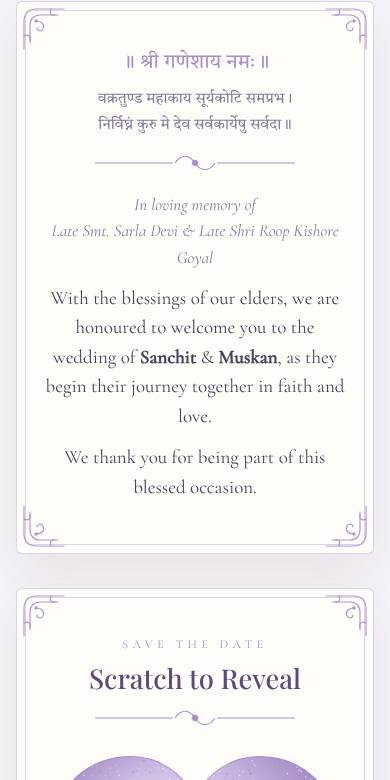
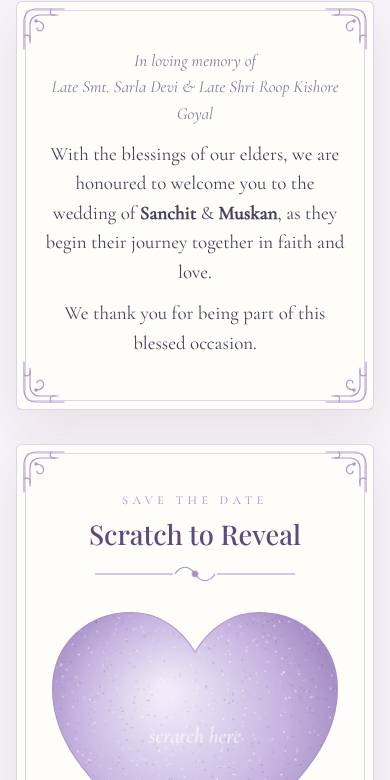
Violet: shloka at top of the hero, invite card in grandparents' blessings format, no intro page
Claude-Session: https://claude.ai/code/session_01Hp1reDtqQxEXYrwbRNhMkA

diff --git a/violet/index.html b/violet/index.html
@@ -11,7 +11,7 @@
 <link rel="preconnect" href="https://fonts.googleapis.com">
 <link rel="preconnect" href="https://fonts.gstatic.com" crossorigin>
 <link rel="stylesheet" href="https://fonts.googleapis.com/css2?family=Allura&family=Playfair+Display:wght@400;500;600&family=Cormorant+Garamond:ital,wght@0,400;0,500;0,600;1,400;1,500&family=Tiro+Devanagari+Hindi&display=swap">
-<link rel="stylesheet" href="../assets/theme.css?v=c7937953">
+<link rel="stylesheet" href="../assets/theme.css?v=d03a716e">
 <style>:root{--bg:#f7f4fa;--ink:#4a3f58;--muted:#86799a;--head:#5e4a7d;--accent:#a98ec8;--accent-deep:#7a5fa0;--line:rgba(160,135,195,.35);--card:#fffdf9;--card-shadow:rgba(90,70,40,.10);--tile:rgba(176,141,87,.06);--btn:#6e568f;--btn-ink:#fff;--paper:#fdfbff;--paper-ink:#5e4a7d;--light:#fff6dc;--hero-ink:#5e4a7d;--hero-accent:#7a5fa0;--hero-shadow:rgba(255,255,255,.7);--name1:#5e4a7d;--name2:#e6d8f6;--o-ink:#5e4a7d;--o-shadow:rgba(255,255,255,.8);--m-ink:#7a5fa0;--m-line:rgba(122,95,160,.45);--rb-hi:#ffffff;--rb:#e9e1d2;--rb-lo:#cbbfa8;--o-veil:rgba(255,255,255,.08);--o-panel:#f4ede1;--fl1:#d7c3ee;--fl2:#ffffff;--fl-c:#e9d8a6;--leaf:#a6b29a;--radius:6px;--o-bg:radial-gradient(circle at 50% 40%,#efe7f7,#cfc0e4);--o1:#d8c9ec;--o2:#c6b3e0;--o-line:#ffffff;--m:#f3eef8;--m-hi:#ffffff;--m-lo:#cbbfd9;--sky1:#ece3f6;--sky2:#fbf8fd;--o-frame:#f7f4fa;--hero-bg:#f7f4fa;--sun:#fff6dc;--mt1:#a6b29a;--mt2:#a6b29a;--water1:#ece3f6;--water2:#f7f4fa;--pal:#fffdf9;--win:#fff6dc;--arch:#fffdf9;--moon:#fff;--hero-veil:radial-gradient(ellipse 72% 52% at 50% 50%,rgba(247,244,250,0.86),rgba(247,244,250,0) 75%);--script:"Allura",cursive;--display:"Playfair Display",serif;--serif:"Cormorant Garamond",Georgia,serif}#music{display:none!important}</style>
 </head>
 <body class="locked">
@@ -67,6 +67,7 @@
   <div class="veil"></div>
   <div class="hero">
     <div class="ganesh h-in" style="--i:0">॥ श्री गणेशाय नमः ॥</div>
+    <div class="ganesh-verse h-in" style="--i:0.5">वक्रतुण्ड महाकाय सूर्यकोटि समप्रभ।<br>निर्विघ्नं कुरु मे देव सर्वकार्येषु सर्वदा॥</div>
     <div class="kicker h-in" style="--i:1">We're getting married</div>
     <h1 class="name" style="--i:2">Sanchit</h1>
     <div class="par h-in" style="--i:3">Son of Smt. Seema Goyal &amp; Shri Sanjay Goyal</div>
@@ -80,11 +81,18 @@
 
 <main>
   <section class="sec rv"><svg class="corner c-tl" aria-hidden="true"><use href="#corner"/></svg><svg class="corner c-tr" aria-hidden="true"><use href="#corner"/></svg><svg class="corner c-bl" aria-hidden="true"><use href="#corner"/></svg><svg class="corner c-br" aria-hidden="true"><use href="#corner"/></svg>
-    <div class="deva st" style="--d:0">॥ श्री गणेशाय नमः ॥<small>वक्रतुण्ड महाकाय सूर्यकोटि समप्रभ।<br>निर्विघ्नं कुरु मे देव सर्वकार्येषु सर्वदा॥</small></div>
-    <svg class="divider" viewBox="0 0 200 22" aria-hidden="true"><path d="M0 11H78M122 11H200M80 11c6-9 14-9 20 0 6 9 14 9 20 0" fill="none" stroke="currentColor" stroke-width="1.1"/><circle cx="100" cy="11" r="3" fill="currentColor"/></svg>
-    <p class="memory st" style="--d:1">In loving memory of<br>Late Smt. Sarla Devi &amp; Late Shri Roop Kishore Goyal</p>
-    <p class="st" style="--d:2">With the blessings of our elders, we are honoured to welcome you to the wedding of <b>Sanchit</b> &amp; <b>Muskan</b>, as they begin their journey together in faith and love.</p>
-    <p class="st" style="--d:3">We thank you for being part of this blessed occasion.</p>
+
+    <div class="inv">
+      <div class="inv-h st" style="--d:0">With the Heavenly Blessings<br>of Grandparents</div>
+      <div class="inv-n st" style="--d:1">Late Smt. Sarla Devi &amp;<br>Late Shri Roop Kishore Goyal</div>
+      <svg class="divider" viewBox="0 0 200 22" aria-hidden="true"><path d="M0 11H78M122 11H200M80 11c6-9 14-9 20 0 6 9 14 9 20 0" fill="none" stroke="currentColor" stroke-width="1.1"/><circle cx="100" cy="11" r="3" fill="currentColor"/></svg>
+      <div class="inv-p st" style="--d:2">Smt. Seema Goyal &amp;<br>Shri Sanjay Goyal</div>
+      <div class="inv-i st" style="--d:3">We cordially invite you to the sacred occasion<br>of the wedding celebrations of our beloved son</div>
+      <div class="inv-s st" style="--d:4">Sanchit</div>
+      <div class="inv-w st" style="--d:5">with</div>
+      <div class="inv-s st" style="--d:6">Muskan</div>
+      <div class="inv-n st" style="--d:7">D/o Smt. Anjali Jain &amp; Late Shri Atul Jain</div>
+    </div>
   </section>
 
   <section class="sec rv"><svg class="corner c-tl" aria-hidden="true"><use href="#corner"/></svg><svg class="corner c-tr" aria-hidden="true"><use href="#corner"/></svg><svg class="corner c-bl" aria-hidden="true"><use href="#corner"/></svg><svg class="corner c-br" aria-hidden="true"><use href="#corner"/></svg>

diff --git a/vintage/index.html b/vintage/index.html
@@ -11,7 +11,7 @@
 <link rel="preconnect" href="https://fonts.googleapis.com">
 <link rel="preconnect" href="https://fonts.gstatic.com" crossorigin>
 <link rel="stylesheet" href="https://fonts.googleapis.com/css2?family=Pinyon+Script&family=Cormorant+Garamond:ital,wght@0,400;0,500;0,600;1,400;1,500&family=Tiro+Devanagari+Hindi&display=swap">
-<link rel="stylesheet" href="../assets/theme.css?v=c7937953">
+<link rel="stylesheet" href="../assets/theme.css?v=d03a716e">
 <style>:root{--bg:#f2e9d6;--ink:#3b3a45;--muted:#7a7064;--head:#2c3a5a;--accent:#8a6f45;--accent-deep:#6b5532;--line:rgba(110,90,60,.35);--card:#f8f1e2;--card-shadow:rgba(90,70,40,.10);--tile:rgba(176,141,87,.06);--btn:#2c3a5a;--btn-ink:#fff;--paper:#f8f0dd;--paper-ink:#2c3a5a;--light:#fff6dc;--hero-ink:#2c3a5a;--hero-accent:#5a6f93;--hero-shadow:rgba(255,255,255,.7);--name1:#2c3a5a;--name2:#a9bcd6;--o-ink:#2c3a5a;--o-shadow:rgba(255,255,255,.7);--m-ink:#fbe3d6;--m-line:rgba(251,227,214,.55);--rb-hi:#ffffff;--rb:#e9e1d2;--rb-lo:#cbbfa8;--o-veil:rgba(255,255,255,.08);--o-panel:#f4ede1;--fl1:#9fb3cf;--fl2:#d6e0ec;--fl-c:#e6d3a3;--leaf:#8f9a7c;--radius:6px;--bg-tex:radial-gradient(circle at 20% 10%,rgba(160,120,60,.10),transparent 40%),radial-gradient(circle at 80% 70%,rgba(160,120,60,.12),transparent 45%);--tex-op:1;--hero-veil:radial-gradient(ellipse 70% 55% at 50% 50%,rgba(244,236,218,.85),rgba(244,236,218,0) 75%);--o-bg:radial-gradient(circle at 50% 45%,#efe2c6,#d6c29c);--o1:#2f3d5e;--o2:#26324d;--o-line:#c9a86a;--m:#b8323a;--m-hi:#e0646a;--m-lo:#7a1b22;--sky1:#efe3c9;--sky2:#f6eedd;--o-frame:#f2e9d6;--hero-bg:#f2e9d6;--sun:#fff6dc;--mt1:#8f9a7c;--mt2:#8f9a7c;--water1:#efe3c9;--water2:#f2e9d6;--pal:#f8f1e2;--win:#fff6dc;--arch:#f8f1e2;--moon:#fff;--script:"Pinyon Script",cursive;--display:"Cormorant Garamond",serif;--serif:"Cormorant Garamond",Georgia,serif}</style>
 </head>
 <body class="locked">
@@ -82,6 +82,7 @@
   <section class="sec rv"><svg class="corner c-tl" aria-hidden="true"><use href="#corner"/></svg><svg class="corner c-tr" aria-hidden="true"><use href="#corner"/></svg><svg class="corner c-bl" aria-hidden="true"><use href="#corner"/></svg><svg class="corner c-br" aria-hidden="true"><use href="#corner"/></svg>
     <div class="deva st" style="--d:0">॥ श्री गणेशाय नमः ॥<small>वक्रतुण्ड महाकाय सूर्यकोटि समप्रभ।<br>निर्विघ्नं कुरु मे देव सर्वकार्येषु सर्वदा॥</small></div>
     <svg class="divider" viewBox="0 0 200 22" aria-hidden="true"><path d="M0 11H78M122 11H200M80 11c6-9 14-9 20 0 6 9 14 9 20 0" fill="none" stroke="currentColor" stroke-width="1.1"/><circle cx="100" cy="11" r="3" fill="currentColor"/></svg>
+
     <p class="memory st" style="--d:1">In loving memory of<br>Late Smt. Sarla Devi &amp; Late Shri Roop Kishore Goyal</p>
     <p class="st" style="--d:2">With the blessings of our elders, we are honoured to welcome you to the wedding of <b>Sanchit</b> &amp; <b>Muskan</b>, as they begin their journey together in faith and love.</p>
     <p class="st" style="--d:3">We thank you for being part of this blessed occasion.</p>

diff --git a/moonveil/index.html b/moonveil/index.html
@@ -11,7 +11,7 @@
 <link rel="preconnect" href="https://fonts.googleapis.com">
 <link rel="preconnect" href="https://fonts.gstatic.com" crossorigin>
 <link rel="stylesheet" href="https://fonts.googleapis.com/css2?family=Pinyon+Script&family=Cinzel:wght@400;500;600&family=Cormorant+Garamond:ital,wght@0,400;0,500;0,600;1,400;1,500&family=Tiro+Devanagari+Hindi&display=swap">
-<link rel="stylesheet" href="../assets/theme.css?v=c7937953">
+<link rel="stylesheet" href="../assets/theme.css?v=d03a716e">
 <style>:root{--ink:#efe6d4;--muted:#bfb197;--head:#f3e7cc;--accent:#d4b06a;--accent-deep:#e2c27e;--line:rgba(212,176,106,.35);--card-shadow:rgba(0,0,0,.45);--tile:rgba(212,176,106,.07);--btn:#d4b06a;--btn-ink:#1a1408;--paper-ink:#3a2f22;--paper:#fbf5e8;--hero-ink:#f6ecd6;--hero-accent:#e2c27e;--hero-shadow:rgba(0,0,0,.6);--name1:#f6ecd6;--name2:#ffe3a0;--light:#fff2cf;--o-ink:#f6ecd6;--o-shadow:rgba(0,0,0,.6);--m-ink:#4a3412;--m-line:rgba(74,52,18,.5);--map-filter:invert(.9) hue-rotate(180deg) saturate(.6);--fl1:#d4b06a;--fl2:#b8934c;--fl-c:#f3dfa6;--leaf:#b8934c;--radius:6px;--bg:#0b0b0d;--card:#141416;--o-bg:#060607;--o-panel:repeating-linear-gradient(90deg,#0a0a0b 0,#19191c 2.5%,#09090a 5%);--rb:rgba(245,240,230,.55);--rb-hi:rgba(255,255,255,.75);--rb-lo:rgba(200,190,170,.45);--m:#d4b06a;--m-hi:#fbe7b4;--m-lo:#94702f;--hero-bg:#08080a;--hero-veil:radial-gradient(ellipse 70% 50% at 50% 55%,rgba(8,8,10,.8),rgba(8,8,10,0) 75%);--sky1:#050506;--sky2:#1c1b22;--moon:#f4ead2;--pal:#0d0d10;--win:#e9c77b;--o1:#333;--o2:#555;--o-frame:#0b0b0d;--sun:#fff2cf;--mt1:#b8934c;--mt2:#b8934c;--water1:#050506;--water2:#0b0b0d;--arch:#141416;--o-veil:transparent;--script:"Pinyon Script",cursive;--display:"Cinzel",serif;--serif:"Cormorant Garamond",Georgia,serif}</style>
 </head>
 <body class="locked dark">
@@ -96,6 +96,7 @@
   <section class="sec rv"><svg class="corner c-tl" aria-hidden="true"><use href="#corner"/></svg><svg class="corner c-tr" aria-hidden="true"><use href="#corner"/></svg><svg class="corner c-bl" aria-hidden="true"><use href="#corner"/></svg><svg class="corner c-br" aria-hidden="true"><use href="#corner"/></svg>
     <div class="deva st" style="--d:0">॥ श्री गणेशाय नमः ॥<small>वक्रतुण्ड महाकाय सूर्यकोटि समप्रभ।<br>निर्विघ्नं कुरु मे देव सर्वकार्येषु सर्वदा॥</small></div>
     <svg class="divider" viewBox="0 0 200 22" aria-hidden="true"><path d="M0 11H78M122 11H200M80 11c6-9 14-9 20 0 6 9 14 9 20 0" fill="none" stroke="currentColor" stroke-width="1.1"/><circle cx="100" cy="11" r="3" fill="currentColor"/></svg>
+
     <p class="memory st" style="--d:1">In loving memory of<br>Late Smt. Sarla Devi &amp; Late Shri Roop Kishore Goyal</p>
     <p class="st" style="--d:2">With the blessings of our elders, we are honoured to welcome you to the wedding of <b>Sanchit</b> &amp; <b>Muskan</b>, as they begin their journey together in faith and love.</p>
     <p class="st" style="--d:3">We thank you for being part of this blessed occasion.</p>

diff --git a/pearlsky/index.html b/pearlsky/index.html
@@ -11,7 +11,7 @@
 <link rel="preconnect" href="https://fonts.googleapis.com">
 <link rel="preconnect" href="https://fonts.gstatic.com" crossorigin>
 <link rel="stylesheet" href="https://fonts.googleapis.com/css2?family=Great+Vibes&family=Cinzel:wght@400;500;600&family=Cormorant+Garamond:ital,wght@0,400;0,500;0,600;1,400;1,500&family=Tiro+Devanagari+Hindi&display=swap">
-<link rel="stylesheet" href="../assets/theme.css?v=c7937953">
+<link rel="stylesheet" href="../assets/theme.css?v=d03a716e">
 <style>:root{--ink:#efe6d4;--muted:#bfb197;--head:#f4ecdd;--accent:#d8c49a;--accent-deep:#efdcb2;--line:rgba(216,196,154,.3);--card-shadow:rgba(0,0,0,.45);--tile:rgba(212,176,106,.07);--btn:#d4b06a;--btn-ink:#1a1408;--paper-ink:#3a2f22;--paper:#fbf5e8;--hero-ink:#f6ecd6;--hero-accent:#e2c27e;--hero-shadow:rgba(0,0,0,.6);--name1:#f7f2e8;--name2:#ffffff;--light:#fff2cf;--o-ink:#f6ecd6;--o-shadow:rgba(0,0,0,.6);--m-ink:#1b2850;--m-line:rgba(27,40,80,.4);--map-filter:invert(.9) hue-rotate(180deg) saturate(.6);--fl1:#f4efe6;--fl2:#dfe6f3;--fl-c:#e6d3a3;--leaf:#4f6176;--radius:6px;--bg:#0f1830;--card:#16213d;--o-bg:#0d1630;--o-panel:repeating-linear-gradient(90deg,#0f1a36 0,#1b2850 2.5%,#0e1833 5%);--rb:#efe8da;--rb-hi:#ffffff;--rb-lo:#c4b9a3;--m:#f1ece2;--m-hi:#ffffff;--m-lo:#c5bba8;--hero-bg:#0d1630;--hero-veil:radial-gradient(ellipse 70% 50% at 50% 55%,rgba(13,22,48,.75),rgba(13,22,48,0) 75%);--sky1:#0b1328;--sky2:#24345e;--moon:#f6f1e2;--pal:#0a1124;--win:#f3d796;--o1:#333;--o2:#555;--o-frame:#0f1830;--sun:#fff2cf;--mt1:#4f6176;--mt2:#4f6176;--water1:#0b1328;--water2:#0f1830;--arch:#16213d;--o-veil:transparent;--script:"Great Vibes",cursive;--display:"Cinzel",serif;--serif:"Cormorant Garamond",Georgia,serif}</style>
 </head>
 <body class="locked dark">
@@ -96,6 +96,7 @@
   <section class="sec rv"><svg class="corner c-tl" aria-hidden="true"><use href="#corner"/></svg><svg class="corner c-tr" aria-hidden="true"><use href="#corner"/></svg><svg class="corner c-bl" aria-hidden="true"><use href="#corner"/></svg><svg class="corner c-br" aria-hidden="true"><use href="#corner"/></svg>
     <div class="deva st" style="--d:0">॥ श्री गणेशाय नमः ॥<small>वक्रतुण्ड महाकाय सूर्यकोटि समप्रभ।<br>निर्विघ्नं कुरु मे देव सर्वकार्येषु सर्वदा॥</small></div>
     <svg class="divider" viewBox="0 0 200 22" aria-hidden="true"><path d="M0 11H78M122 11H200M80 11c6-9 14-9 20 0 6 9 14 9 20 0" fill="none" stroke="currentColor" stroke-width="1.1"/><circle cx="100" cy="11" r="3" fill="currentColor"/></svg>
+
     <p class="memory st" style="--d:1">In loving memory of<br>Late Smt. Sarla Devi &amp; Late Shri Roop Kishore Goyal</p>
     <p class="st" style="--d:2">With the blessings of our elders, we are honoured to welcome you to the wedding of <b>Sanchit</b> &amp; <b>Muskan</b>, as they begin their journey together in faith and love.</p>
     <p class="st" style="--d:3">We thank you for being part of this blessed occasion.</p>

diff --git a/crest/index.html b/crest/index.html
@@ -11,7 +11,7 @@
 <link rel="preconnect" href="https://fonts.googleapis.com">
 <link rel="preconnect" href="https://fonts.gstatic.com" crossorigin>
 <link rel="stylesheet" href="https://fonts.googleapis.com/css2?family=Pinyon+Script&family=Playfair+Display:wght@400;500;600&family=Cormorant+Garamond:ital,wght@0,400;0,500;0,600;1,400;1,500&family=Tiro+Devanagari+Hindi&display=swap">
-<link rel="stylesheet" href="../assets/theme.css?v=c7937953">
+<link rel="stylesheet" href="../assets/theme.css?v=d03a716e">
 <style>:root{--bg:#faf6ee;--ink:#3f3630;--muted:#85776a;--head:#5c1a26;--accent:#b0905a;--accent-deep:#866a38;--line:rgba(176,141,87,.35);--card:#fffdf9;--card-shadow:rgba(90,70,40,.10);--tile:rgba(176,141,87,.06);--btn:#5c1a26;--btn-ink:#fff;--paper:#fffaf1;--paper-ink:#5c1a26;--light:#fff6dc;--hero-ink:#5c1a26;--hero-accent:#7a4a3a;--hero-shadow:rgba(255,255,255,.7);--name1:#5c1a26;--name2:#efcfb4;--o-ink:#5c1a26;--o-shadow:rgba(255,255,255,.8);--m-ink:#f5dcc8;--m-line:rgba(245,220,200,.5);--rb-hi:#ffffff;--rb:#e9e1d2;--rb-lo:#cbbfa8;--o-veil:rgba(255,255,255,.08);--o-panel:#f4ede1;--fl1:#f7efe4;--fl2:#ecd2c7;--fl-c:#d9b26a;--leaf:#9aa47e;--radius:6px;--o-bg:radial-gradient(circle at 50% 40%,#f5efe3,#ddd0b8);--o1:#f1e9da;--o2:#e4d8c2;--o-line:#b0905a;--m:#7a1f2e;--m-hi:#b0485a;--m-lo:#4a0f19;--sky1:#e8dccb;--sky2:#f8f3ea;--sun:#fffaf0;--mt1:#cdbfae;--mt2:#a3a58a;--water1:#c9c0b0;--water2:#efe8dc;--o-frame:#faf6ee;--hero-bg:#faf6ee;--pal:#fffdf9;--win:#fff6dc;--arch:#fffdf9;--moon:#fff;--hero-veil:radial-gradient(ellipse 72% 52% at 50% 50%,rgba(250,246,238,0.86),rgba(250,246,238,0) 75%);--script:"Pinyon Script",cursive;--display:"Playfair Display",serif;--serif:"Cormorant Garamond",Georgia,serif}</style>
 </head>
 <body class="locked">
@@ -86,6 +86,7 @@
   <section class="sec rv"><svg class="corner c-tl" aria-hidden="true"><use href="#corner"/></svg><svg class="corner c-tr" aria-hidden="true"><use href="#corner"/></svg><svg class="corner c-bl" aria-hidden="true"><use href="#corner"/></svg><svg class="corner c-br" aria-hidden="true"><use href="#corner"/></svg>
     <div class="deva st" style="--d:0">॥ श्री गणेशाय नमः ॥<small>वक्रतुण्ड महाकाय सूर्यकोटि समप्रभ।<br>निर्विघ्नं कुरु मे देव सर्वकार्येषु सर्वदा॥</small></div>
     <svg class="divider" viewBox="0 0 200 22" aria-hidden="true"><path d="M0 11H78M122 11H200M80 11c6-9 14-9 20 0 6 9 14 9 20 0" fill="none" stroke="currentColor" stroke-width="1.1"/><circle cx="100" cy="11" r="3" fill="currentColor"/></svg>
+
     <p class="memory st" style="--d:1">In loving memory of<br>Late Smt. Sarla Devi &amp; Late Shri Roop Kishore Goyal</p>
     <p class="st" style="--d:2">With the blessings of our elders, we are honoured to welcome you to the wedding of <b>Sanchit</b> &amp; <b>Muskan</b>, as they begin their journey together in faith and love.</p>
     <p class="st" style="--d:3">We thank you for being part of this blessed occasion.</p>

diff --git a/prism/index.html b/prism/index.html
@@ -11,7 +11,7 @@
 <link rel="preconnect" href="https://fonts.googleapis.com">
 <link rel="preconnect" href="https://fonts.gstatic.com" crossorigin>
 <link rel="stylesheet" href="https://fonts.googleapis.com/css2?family=Great+Vibes&family=Italiana&family=Cormorant+Garamond:ital,wght@0,400;0,500;0,600;1,400;1,500&family=Tiro+Devanagari+Hindi&display=swap">
-<link rel="stylesheet" href="../assets/theme.css?v=c7937953">
+<link rel="stylesheet" href="../assets/theme.css?v=d03a716e">
 <style>:root{--bg:#f3f5ef;--ink:#3f3630;--muted:#85776a;--head:#4e5d47;--accent:#b49656;--accent-deep:#86703c;--line:rgba(140,160,120,.4);--card:#fffdf9;--card-shadow:rgba(90,70,40,.10);--tile:rgba(176,141,87,.06);--btn:#5e6e55;--btn-ink:#fff;--paper:#fffaf1;--paper-ink:#4e5d47;--light:#fff6dc;--hero-ink:#4e5d47;--hero-accent:#86703c;--hero-shadow:rgba(255,255,255,.7);--name1:#4e5d47;--name2:#f1dfa9;--o-ink:#4e5d47;--o-shadow:rgba(255,255,255,.9);--m-ink:#fff6df;--m-line:rgba(255,246,223,.75);--rb-hi:#ffffff;--rb:#e9e1d2;--rb-lo:#cbbfa8;--o-veil:linear-gradient(160deg,rgba(176,196,160,.55),rgba(214,226,200,.35) 50%,rgba(160,184,146,.55));--o-panel:#f4ede1;--fl1:#ffffff;--fl2:#eef2e6;--fl-c:#e1c27a;--leaf:#98aa86;--radius:6px;--o-bg:#dfe6d7;--o-line:rgba(255,255,255,.7);--m:#c9a45e;--m-hi:#f3dea8;--m-lo:#8d6a2f;--sky1:#e8eedf;--sky2:#fbfcf8;--o1:#333;--o2:#555;--o-frame:#f3f5ef;--hero-bg:#f3f5ef;--sun:#fff6dc;--mt1:#98aa86;--mt2:#98aa86;--water1:#e8eedf;--water2:#f3f5ef;--pal:#fffdf9;--win:#fff6dc;--arch:#fffdf9;--moon:#fff;--hero-veil:radial-gradient(ellipse 72% 52% at 50% 50%,rgba(243,245,239,0.86),rgba(243,245,239,0) 75%);--script:"Great Vibes",cursive;--display:"Italiana",serif;--serif:"Cormorant Garamond",Georgia,serif}</style>
 </head>
 <body class="locked">
@@ -89,6 +89,7 @@
   <section class="sec rv"><svg class="corner c-tl" aria-hidden="true"><use href="#corner"/></svg><svg class="corner c-tr" aria-hidden="true"><use href="#corner"/></svg><svg class="corner c-bl" aria-hidden="true"><use href="#corner"/></svg><svg class="corner c-br" aria-hidden="true"><use href="#corner"/></svg>
     <div class="deva st" style="--d:0">॥ श्री गणेशाय नमः ॥<small>वक्रतुण्ड महाकाय सूर्यकोटि समप्रभ।<br>निर्विघ्नं कुरु मे देव सर्वकार्येषु सर्वदा॥</small></div>
     <svg class="divider" viewBox="0 0 200 22" aria-hidden="true"><path d="M0 11H78M122 11H200M80 11c6-9 14-9 20 0 6 9 14 9 20 0" fill="none" stroke="currentColor" stroke-width="1.1"/><circle cx="100" cy="11" r="3" fill="currentColor"/></svg>
+
     <p class="memory st" style="--d:1">In loving memory of<br>Late Smt. Sarla Devi &amp; Late Shri Roop Kishore Goyal</p>
     <p class="st" style="--d:2">With the blessings of our elders, we are honoured to welcome you to the wedding of <b>Sanchit</b> &amp; <b>Muskan</b>, as they begin their journey together in faith and love.</p>
     <p class="st" style="--d:3">We thank you for being part of this blessed occasion.</p>

diff --git a/crimson-royale/index.html b/crimson-royale/index.html
@@ -11,7 +11,7 @@
 <link rel="preconnect" href="https://fonts.googleapis.com">
 <link rel="preconnect" href="https://fonts.gstatic.com" crossorigin>
 <link rel="stylesheet" href="https://fonts.googleapis.com/css2?family=Great+Vibes&family=Playfair+Display:wght@400;500;600&family=Cormorant+Garamond:ital,wght@0,400;0,500;0,600;1,400;1,500&family=Tiro+Devanagari+Hindi&display=swap">
-<link rel="stylesheet" href="../assets/theme.css?v=c7937953">
+<link rel="stylesheet" href="../assets/theme.css?v=d03a716e">
 <style>:root{--ink:#efe6d4;--muted:#bfb197;--head:#f2e3c6;--accent:#c9a25e;--accent-deep:#e4c27f;--line:rgba(201,162,94,.3);--card-shadow:rgba(0,0,0,.45);--tile:rgba(212,176,106,.07);--btn:#d4b06a;--btn-ink:#1a1408;--paper-ink:#3a2f22;--paper:#fbf5e8;--hero-ink:#f6ecd6;--hero-accent:#e2c27e;--hero-shadow:rgba(0,0,0,.6);--name1:#f6ecd6;--name2:#ff9aa6;--light:#fff2cf;--o-ink:#f6ecd6;--o-shadow:rgba(0,0,0,.6);--m-ink:#f6dcc0;--m-line:rgba(246,220,192,.5);--map-filter:invert(.9) hue-rotate(180deg) saturate(.6);--fl1:#f4efe6;--fl2:#d8c9a8;--fl-c:#d4b06a;--leaf:#6f7d5c;--radius:6px;--bg:#151517;--card:#1d1d20;--o-bg:radial-gradient(circle at 50% 45%,#2a2a2e,#0b0b0c);--o2:linear-gradient(150deg,#2b2b2f,#141416);--o-line:#c9a25e;--m:#8e1424;--m-hi:#c8394b;--m-lo:#560a14;--hero-bg:radial-gradient(circle at 50% 40%,#2a1216,#0d0d0f);--hero-veil:none;--sky1:#0d0d0f;--sky2:#2a1216;--o1:linear-gradient(150deg,#2b2b2f,#141416);--o-frame:#151517;--sun:#fff2cf;--mt1:#6f7d5c;--mt2:#6f7d5c;--water1:#0d0d0f;--water2:#151517;--pal:#1d1d20;--win:#fff2cf;--arch:#1d1d20;--moon:#fff;--o-veil:transparent;--script:"Great Vibes",cursive;--display:"Playfair Display",serif;--serif:"Cormorant Garamond",Georgia,serif}</style>
 </head>
 <body class="locked dark">
@@ -84,6 +84,7 @@
   <section class="sec rv"><svg class="corner c-tl" aria-hidden="true"><use href="#corner"/></svg><svg class="corner c-tr" aria-hidden="true"><use href="#corner"/></svg><svg class="corner c-bl" aria-hidden="true"><use href="#corner"/></svg><svg class="corner c-br" aria-hidden="true"><use href="#corner"/></svg>
     <div class="deva st" style="--d:0">॥ श्री गणेशाय नमः ॥<small>वक्रतुण्ड महाकाय सूर्यकोटि समप्रभ।<br>निर्विघ्नं कुरु मे देव सर्वकार्येषु सर्वदा॥</small></div>
     <svg class="divider" viewBox="0 0 200 22" aria-hidden="true"><path d="M0 11H78M122 11H200M80 11c6-9 14-9 20 0 6 9 14 9 20 0" fill="none" stroke="currentColor" stroke-width="1.1"/><circle cx="100" cy="11" r="3" fill="currentColor"/></svg>
+
     <p class="memory st" style="--d:1">In loving memory of<br>Late Smt. Sarla Devi &amp; Late Shri Roop Kishore Goyal</p>
     <p class="st" style="--d:2">With the blessings of our elders, we are honoured to welcome you to the wedding of <b>Sanchit</b> &amp; <b>Muskan</b>, as they begin their journey together in faith and love.</p>
     <p class="st" style="--d:3">We thank you for being part of this blessed occasion.</p>

diff --git a/majesty/index.html b/majesty/index.html
@@ -11,7 +11,7 @@
 <link rel="preconnect" href="https://fonts.googleapis.com">
 <link rel="preconnect" href="https://fonts.gstatic.com" crossorigin>
 <link rel="stylesheet" href="https://fonts.googleapis.com/css2?family=Pinyon+Script&family=Cinzel:wght@400;500;600&family=Cormorant+Garamond:ital,wght@0,400;0,500;0,600;1,400;1,500&family=Tiro+Devanagari+Hindi&display=swap">
-<link rel="stylesheet" href="../assets/theme.css?v=c7937953">
+<link rel="stylesheet" href="../assets/theme.css?v=d03a716e">
 <style>:root{--bg:#f1f5f9;--ink:#33435a;--muted:#6f7f95;--head:#34507a;--accent:#a5895a;--accent-deep:#7b6236;--line:rgba(120,145,180,.35);--card:#fbfdff;--card-shadow:rgba(40,70,110,.12);--tile:rgba(176,141,87,.06);--btn:#34507a;--btn-ink:#fff;--paper:#fbfdff;--paper-ink:#34507a;--light:#fff6dc;--hero-ink:#34507a;--hero-accent:#5a7194;--hero-shadow:rgba(255,255,255,.7);--name1:#34507a;--name2:#c9d8ee;--o-ink:#34507a;--o-shadow:rgba(255,255,255,.8);--m-ink:#f7fbff;--m-line:rgba(255,255,255,.75);--rb-hi:#ffffff;--rb:#e9e1d2;--rb-lo:#cbbfa8;--o-veil:rgba(255,255,255,.08);--o-panel:#f4ede1;--fl1:#c4d4ea;--fl2:#ffffff;--fl-c:#e4cf9c;--leaf:#9fb2c2;--radius:6px;--o-bg:radial-gradient(circle at 50% 40%,#dfe8f2,#b9cadc);--o1:#cfdceb;--o2:#b7c9de;--m:#a9bfd8;--m-hi:#e3edf7;--m-lo:#7d97b6;--o-line:#c2a46a;--sky1:#c7d6e8;--sky2:#eef3f9;--sun:#ffffff;--pal:#dfe7f1;--win:#fff3d6;--water1:#c9d8ea;--water2:#eaf1f8;--o-frame:#f1f5f9;--hero-bg:#f1f5f9;--mt1:#9fb2c2;--mt2:#9fb2c2;--arch:#fbfdff;--moon:#fff;--hero-veil:radial-gradient(ellipse 72% 52% at 50% 50%,rgba(241,245,249,0.86),rgba(241,245,249,0) 75%);--script:"Pinyon Script",cursive;--display:"Cinzel",serif;--serif:"Cormorant Garamond",Georgia,serif}</style>
 </head>
 <body class="locked">
@@ -93,6 +93,7 @@
   <section class="sec rv"><svg class="corner c-tl" aria-hidden="true"><use href="#corner"/></svg><svg class="corner c-tr" aria-hidden="true"><use href="#corner"/></svg><svg class="corner c-bl" aria-hidden="true"><use href="#corner"/></svg><svg class="corner c-br" aria-hidden="true"><use href="#corner"/></svg>
     <div class="deva st" style="--d:0">॥ श्री गणेशाय नमः ॥<small>वक्रतुण्ड महाकाय सूर्यकोटि समप्रभ।<br>निर्विघ्नं कुरु मे देव सर्वकार्येषु सर्वदा॥</small></div>
     <svg class="divider" viewBox="0 0 200 22" aria-hidden="true"><path d="M0 11H78M122 11H200M80 11c6-9 14-9 20 0 6 9 14 9 20 0" fill="none" stroke="currentColor" stroke-width="1.1"/><circle cx="100" cy="11" r="3" fill="currentColor"/></svg>
+
     <p class="memory st" style="--d:1">In loving memory of<br>Late Smt. Sarla Devi &amp; Late Shri Roop Kishore Goyal</p>
     <p class="st" style="--d:2">With the blessings of our elders, we are honoured to welcome you to the wedding of <b>Sanchit</b> &amp; <b>Muskan</b>, as they begin their journey together in faith and love.</p>
     <p class="st" style="--d:3">We thank you for being part of this blessed occasion.</p>

diff --git a/prestige/index.html b/prestige/index.html
@@ -11,7 +11,7 @@
 <link rel="preconnect" href="https://fonts.googleapis.com">
 <link rel="preconnect" href="https://fonts.gstatic.com" crossorigin>
 <link rel="stylesheet" href="https://fonts.googleapis.com/css2?family=Pinyon+Script&family=Cinzel:wght@400;500;600&family=Cormorant+Garamond:ital,wght@0,400;0,500;0,600;1,400;1,500&family=Tiro+Devanagari+Hindi&display=swap">
-<link rel="stylesheet" href="../assets/theme.css?v=c7937953">
+<link rel="stylesheet" href="../assets/theme.css?v=d03a716e">
 <style>:root{--ink:#efe6d4;--muted:#bfb197;--head:#f2e3c2;--accent:#cfab68;--accent-deep:#e6c789;--line:rgba(207,171,104,.32);--card-shadow:rgba(0,0,0,.45);--tile:rgba(212,176,106,.07);--btn:#d4b06a;--btn-ink:#1a1408;--paper-ink:#3a2f22;--paper:#fbf5e8;--hero-ink:#f6ecd6;--hero-accent:#e2c27e;--hero-shadow:rgba(0,0,0,.6);--name1:#f6ecd6;--name2:#ffe3a0;--light:#fff2cf;--o-ink:#f6ecd6;--o-shadow:rgba(0,0,0,.6);--m-ink:#4a3412;--m-line:rgba(74,52,18,.5);--map-filter:invert(.9) hue-rotate(180deg) saturate(.6);--fl1:#f4efe6;--fl2:#d8c9a8;--fl-c:#d4b06a;--leaf:#6f7d5c;--radius:6px;--bg:#17120d;--card:#1f1912;--o-bg:radial-gradient(circle at 50% 50%,#2a2015,#0b0806);--o2:linear-gradient(150deg,#2a2016,#120d08);--o-line:#cfab68;--m:#d4b06a;--m-hi:#fbe7b4;--m-lo:#94702f;--hero-bg:radial-gradient(circle at 50% 40%,#2a2016,#0e0a07);--hero-veil:none;--sky1:#120d08;--sky2:#2a2016;--o1:linear-gradient(150deg,#2a2016,#120d08);--o-frame:#17120d;--sun:#fff2cf;--mt1:#6f7d5c;--mt2:#6f7d5c;--water1:#120d08;--water2:#17120d;--pal:#1f1912;--win:#fff2cf;--arch:#1f1912;--moon:#fff;--o-veil:transparent;--script:"Pinyon Script",cursive;--display:"Cinzel",serif;--serif:"Cormorant Garamond",Georgia,serif}</style>
 </head>
 <body class="locked dark">
@@ -84,6 +84,7 @@
   <section class="sec rv"><svg class="corner c-tl" aria-hidden="true"><use href="#corner"/></svg><svg class="corner c-tr" aria-hidden="true"><use href="#corner"/></svg><svg class="corner c-bl" aria-hidden="true"><use href="#corner"/></svg><svg class="corner c-br" aria-hidden="true"><use href="#corner"/></svg>
     <div class="deva st" style="--d:0">॥ श्री गणेशाय नमः ॥<small>वक्रतुण्ड महाकाय सूर्यकोटि समप्रभ।<br>निर्विघ्नं कुरु मे देव सर्वकार्येषु सर्वदा॥</small></div>
     <svg class="divider" viewBox="0 0 200 22" aria-hidden="true"><path d="M0 11H78M122 11H200M80 11c6-9 14-9 20 0 6 9 14 9 20 0" fill="none" stroke="currentColor" stroke-width="1.1"/><circle cx="100" cy="11" r="3" fill="currentColor"/></svg>
+
     <p class="memory st" style="--d:1">In loving memory of<br>Late Smt. Sarla Devi &amp; Late Shri Roop Kishore Goyal</p>
     <p class="st" style="--d:2">With the blessings of our elders, we are honoured to welcome you to the wedding of <b>Sanchit</b> &amp; <b>Muskan</b>, as they begin their journey together in faith and love.</p>
     <p class="st" style="--d:3">We thank you for being part of this blessed occasion.</p>

diff --git a/monarch/index.html b/monarch/index.html
@@ -11,7 +11,7 @@
 <link rel="preconnect" href="https://fonts.googleapis.com">
 <link rel="preconnect" href="https://fonts.gstatic.com" crossorigin>
 <link rel="stylesheet" href="https://fonts.googleapis.com/css2?family=Parisienne&family=Cormorant+Garamond:ital,wght@0,400;0,500;0,600;1,400;1,500&family=Tiro+Devanagari+Hindi&display=swap">
-<link rel="stylesheet" href="../assets/theme.css?v=c7937953">
+<link rel="stylesheet" href="../assets/theme.css?v=d03a716e">
 <style>:root{--bg:#f5f8fa;--ink:#3b4a57;--muted:#748392;--head:#456583;--accent:#9a8458;--accent-deep:#6f5c36;--line:rgba(122,154,186,.35);--card:#fffdf9;--card-shadow:rgba(90,70,40,.10);--tile:rgba(176,141,87,.06);--btn:#456583;--btn-ink:#fff;--paper:#fffaf1;--paper-ink:#456583;--light:#fff6dc;--hero-ink:#456583;--hero-accent:#55779a;--hero-shadow:rgba(255,255,255,.7);--name1:#456583;--name2:#cfe0ef;--o-ink:#456583;--o-shadow:rgba(255,255,255,.9);--m-ink:#456583;--m-line:rgba(69,101,131,.4);--rb-hi:#dbe8f4;--rb:#a9c1d9;--rb-lo:#7f9dbd;--o-veil:rgba(255,255,255,.08);--o-panel:repeating-linear-gradient(90deg,#f6f1e6 0 18px,#ece4d3 18px 22px,#faf6ee 22px 40px);--fl1:#ffffff;--fl2:#dce8f3;--fl-c:#e6cf93;--leaf:#97ab8a;--radius:6px;--o-bg:#eef2f4;--m:#f6efe0;--m-hi:#ffffff;--m-lo:#d9cdb3;--sky1:#bcd3e8;--sky2:#f1f6fa;--sun:#ffffff;--mt1:#b8c9d8;--mt2:#93aa9a;--water1:#a8c3d9;--water2:#dce9f2;--o1:#333;--o2:#555;--o-frame:#f5f8fa;--hero-bg:#f5f8fa;--pal:#fffdf9;--win:#fff6dc;--arch:#fffdf9;--moon:#fff;--hero-veil:radial-gradient(ellipse 72% 52% at 50% 50%,rgba(245,248,250,0.86),rgba(245,248,250,0) 75%);--script:"Parisienne",cursive;--display:"Cormorant Garamond",serif;--serif:"Cormorant Garamond",Georgia,serif}</style>
 </head>
 <body class="locked">
@@ -88,6 +88,7 @@
   <section class="sec rv"><svg class="corner c-tl" aria-hidden="true"><use href="#corner"/></svg><svg class="corner c-tr" aria-hidden="true"><use href="#corner"/></svg><svg class="corner c-bl" aria-hidden="true"><use href="#corner"/></svg><svg class="corner c-br" aria-hidden="true"><use href="#corner"/></svg>
     <div class="deva st" style="--d:0">॥ श्री गणेशाय नमः ॥<small>वक्रतुण्ड महाकाय सूर्यकोटि समप्रभ।<br>निर्विघ्नं कुरु मे देव सर्वकार्येषु सर्वदा॥</small></div>
     <svg class="divider" viewBox="0 0 200 22" aria-hidden="true"><path d="M0 11H78M122 11H200M80 11c6-9 14-9 20 0 6 9 14 9 20 0" fill="none" stroke="currentColor" stroke-width="1.1"/><circle cx="100" cy="11" r="3" fill="currentColor"/></svg>
+
     <p class="memory st" style="--d:1">In loving memory of<br>Late Smt. Sarla Devi &amp; Late Shri Roop Kishore Goyal</p>
     <p class="st" style="--d:2">With the blessings of our elders, we are honoured to welcome you to the wedding of <b>Sanchit</b> &amp; <b>Muskan</b>, as they begin their journey together in faith and love.</p>
     <p class="st" style="--d:3">We thank you for being part of this blessed occasion.</p>

diff --git a/flora/index.html b/flora/index.html
@@ -11,7 +11,7 @@
 <link rel="preconnect" href="https://fonts.googleapis.com">
 <link rel="preconnect" href="https://fonts.gstatic.com" crossorigin>
 <link rel="stylesheet" href="https://fonts.googleapis.com/css2?family=Great+Vibes&family=Playfair+Display:wght@400;500;600&family=Cormorant+Garamond:ital,wght@0,400;0,500;0,600;1,400;1,500&family=Tiro+Devanagari+Hindi&display=swap">
-<link rel="stylesheet" href="../assets/theme.css?v=c7937953">
+<link rel="stylesheet" href="../assets/theme.css?v=d03a716e">
 <style>:root{--bg:#f9f6ef;--ink:#3f3630;--muted:#85776a;--head:#5d6b4f;--accent:#b58f68;--accent-deep:#8c6a45;--line:rgba(176,141,87,.35);--card:#fffdf9;--card-shadow:rgba(90,70,40,.10);--tile:rgba(176,141,87,.06);--btn:#6d7c5e;--btn-ink:#fff;--paper:#fffaf1;--paper-ink:#5d6b4f;--light:#fff6dc;--hero-ink:#5d6b4f;--hero-accent:#7a6248;--hero-shadow:rgba(255,255,255,.7);--name1:#5d6b4f;--name2:#efd3c8;--o-ink:#5d6b4f;--o-shadow:rgba(255,255,255,.9);--m-ink:#fff6df;--m-line:rgba(255,246,223,.75);--rb-hi:#ffffff;--rb:#e9e1d2;--rb-lo:#cbbfa8;--o-veil:rgba(255,255,255,.08);--o-panel:#f4ede1;--fl1:#f2c9c1;--fl2:#fbe9e4;--fl-c:#e0b36d;--leaf:#9caa86;--radius:6px;--o-bg:#efe9dc;--o1:#efe7d7;--o2:#fbf7ef;--o-line:#c8ad85;--m:#c9a45e;--m-hi:#f3dea8;--m-lo:#8d6a2f;--sky1:#f3ece0;--sky2:#fbf8f2;--o-frame:#f9f6ef;--hero-bg:#f9f6ef;--sun:#fff6dc;--mt1:#9caa86;--mt2:#9caa86;--water1:#f3ece0;--water2:#f9f6ef;--pal:#fffdf9;--win:#fff6dc;--arch:#fffdf9;--moon:#fff;--hero-veil:radial-gradient(ellipse 72% 52% at 50% 50%,rgba(249,246,239,0.86),rgba(249,246,239,0) 75%);--script:"Great Vibes",cursive;--display:"Playfair Display",serif;--serif:"Cormorant Garamond",Georgia,serif}</style>
 </head>
 <body class="locked">
@@ -78,6 +78,7 @@
   <section class="sec rv"><svg class="corner c-tl" aria-hidden="true"><use href="#corner"/></svg><svg class="corner c-tr" aria-hidden="true"><use href="#corner"/></svg><svg class="corner c-bl" aria-hidden="true"><use href="#corner"/></svg><svg class="corner c-br" aria-hidden="true"><use href="#corner"/></svg>
     <div class="deva st" style="--d:0">॥ श्री गणेशाय नमः ॥<small>वक्रतुण्ड महाकाय सूर्यकोटि समप्रभ।<br>निर्विघ्नं कुरु मे देव सर्वकार्येषु सर्वदा॥</small></div>
     <svg class="divider" viewBox="0 0 200 22" aria-hidden="true"><path d="M0 11H78M122 11H200M80 11c6-9 14-9 20 0 6 9 14 9 20 0" fill="none" stroke="currentColor" stroke-width="1.1"/><circle cx="100" cy="11" r="3" fill="currentColor"/></svg>
+
     <p class="memory st" style="--d:1">In loving memory of<br>Late Smt. Sarla Devi &amp; Late Shri Roop Kishore Goyal</p>
     <p class="st" style="--d:2">With the blessings of our elders, we are honoured to welcome you to the wedding of <b>Sanchit</b> &amp; <b>Muskan</b>, as they begin their journey together in faith and love.</p>
     <p class="st" style="--d:3">We thank you for being part of this blessed occasion.</p>

diff --git a/rose-gold-blush/index.html b/rose-gold-blush/index.html
@@ -11,7 +11,7 @@
 <link rel="preconnect" href="https://fonts.googleapis.com">
 <link rel="preconnect" href="https://fonts.gstatic.com" crossorigin>
 <link rel="stylesheet" href="https://fonts.googleapis.com/css2?family=Great+Vibes&family=Playfair+Display:wght@400;500;600&family=Cormorant+Garamond:ital,wght@0,400;0,500;0,600;1,400;1,500&family=Tiro+Devanagari+Hindi&display=swap">
-<link rel="stylesheet" href="../assets/theme.css?v=c7937953">
+<link rel="stylesheet" href="../assets/theme.css?v=d03a716e">
 <style>:root{--bg:#fdf4f1;--ink:#3f3630;--muted:#85776a;--head:#7c4b47;--accent:#c48e7c;--accent-deep:#a06a59;--line:rgba(196,142,124,.35);--card:#fffdf9;--card-shadow:rgba(90,70,40,.10);--tile:rgba(176,141,87,.06);--btn:#a96f61;--btn-ink:#fff;--paper:#fffaf1;--paper-ink:#7c4b47;--light:#fff6dc;--hero-ink:#7c4b47;--hero-accent:#a06a59;--hero-shadow:rgba(255,255,255,.7);--name1:#7c4b47;--name2:#f8d2c6;--o-ink:#7c4b47;--o-shadow:rgba(255,255,255,.9);--m-ink:#fff8e8;--m-line:rgba(255,248,232,.7);--rb-hi:#ffffff;--rb:#e9e1d2;--rb-lo:#cbbfa8;--o-veil:rgba(255,255,255,.08);--o-panel:#f4ede1;--fl1:#f1b7a9;--fl2:#ffffff;--fl-c:#e4b27d;--leaf:#b0b893;--radius:6px;--o-bg:#f2d6cf;--o1:#efcfc6;--o2:#f9e5df;--o-line:#c48e7c;--o-frame:#f7e4dd;--m:#cf9a87;--m-hi:#f6d7cc;--m-lo:#9b6352;--sky1:#f7dcd4;--sky2:#fef7f4;--hero-bg:#fdf4f1;--sun:#fff6dc;--mt1:#b0b893;--mt2:#b0b893;--water1:#f7dcd4;--water2:#fdf4f1;--pal:#fffdf9;--win:#fff6dc;--arch:#fffdf9;--moon:#fff;--hero-veil:radial-gradient(ellipse 72% 52% at 50% 50%,rgba(253,244,241,0.86),rgba(253,244,241,0) 75%);--script:"Great Vibes",cursive;--display:"Playfair Display",serif;--serif:"Cormorant Garamond",Georgia,serif}</style>
 </head>
 <body class="locked">
@@ -86,6 +86,7 @@
   <section class="sec rv"><svg class="corner c-tl" aria-hidden="true"><use href="#corner"/></svg><svg class="corner c-tr" aria-hidden="true"><use href="#corner"/></svg><svg class="corner c-bl" aria-hidden="true"><use href="#corner"/></svg><svg class="corner c-br" aria-hidden="true"><use href="#corner"/></svg>
     <div class="deva st" style="--d:0">॥ श्री गणेशाय नमः ॥<small>वक्रतुण्ड महाकाय सूर्यकोटि समप्रभ।<br>निर्विघ्नं कुरु मे देव सर्वकार्येषु सर्वदा॥</small></div>
     <svg class="divider" viewBox="0 0 200 22" aria-hidden="true"><path d="M0 11H78M122 11H200M80 11c6-9 14-9 20 0 6 9 14 9 20 0" fill="none" stroke="currentColor" stroke-width="1.1"/><circle cx="100" cy="11" r="3" fill="currentColor"/></svg>
+
     <p class="memory st" style="--d:1">In loving memory of<br>Late Smt. Sarla Devi &amp; Late Shri Roop Kishore Goyal</p>
     <p class="st" style="--d:2">With the blessings of our elders, we are honoured to welcome you to the wedding of <b>Sanchit</b> &amp; <b>Muskan</b>, as they begin their journey together in faith and love.</p>
     <p class="st" style="--d:3">We thank you for being part of this blessed occasion.</p>
